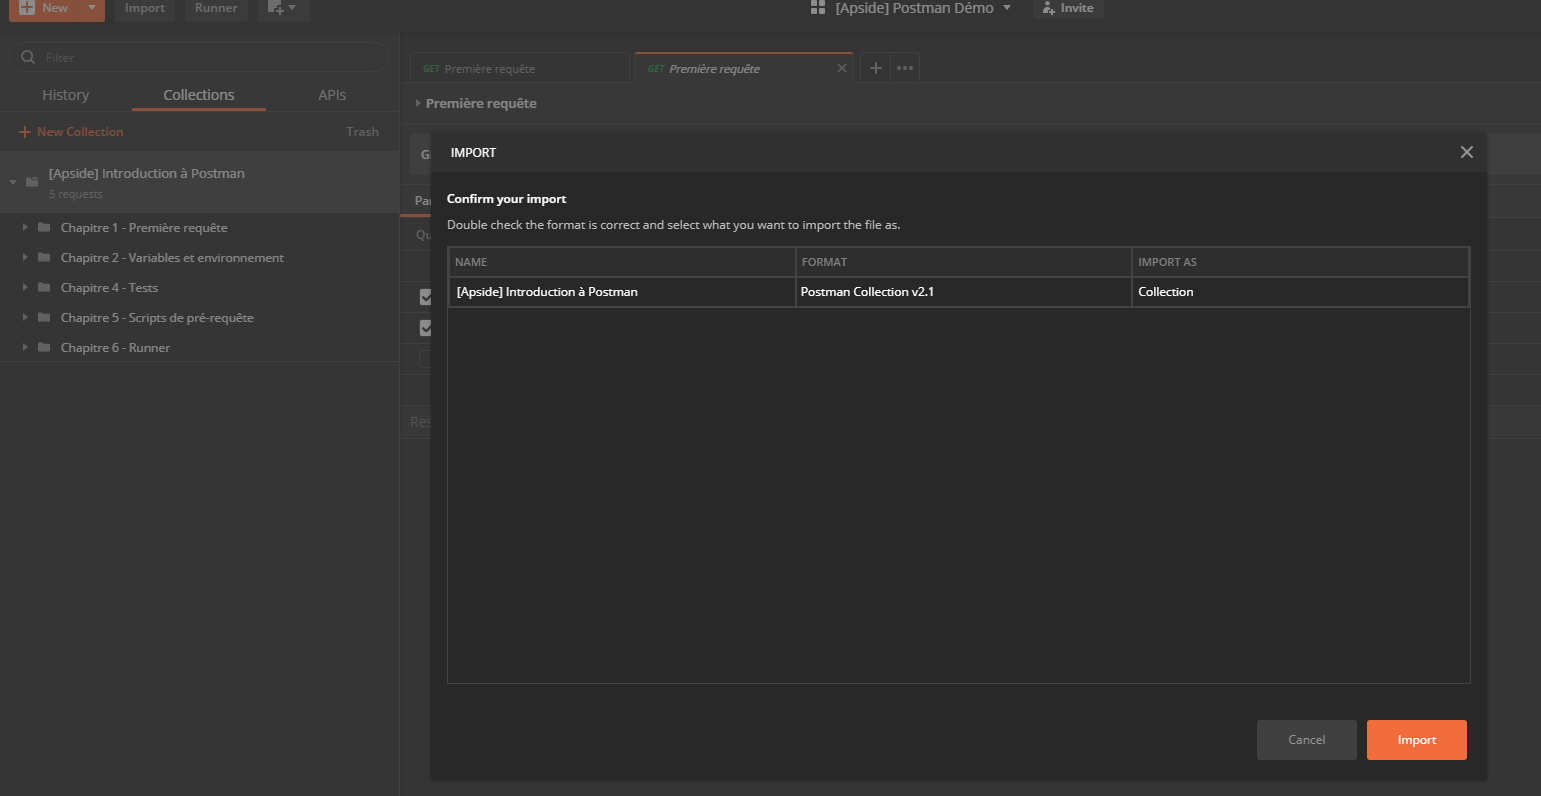
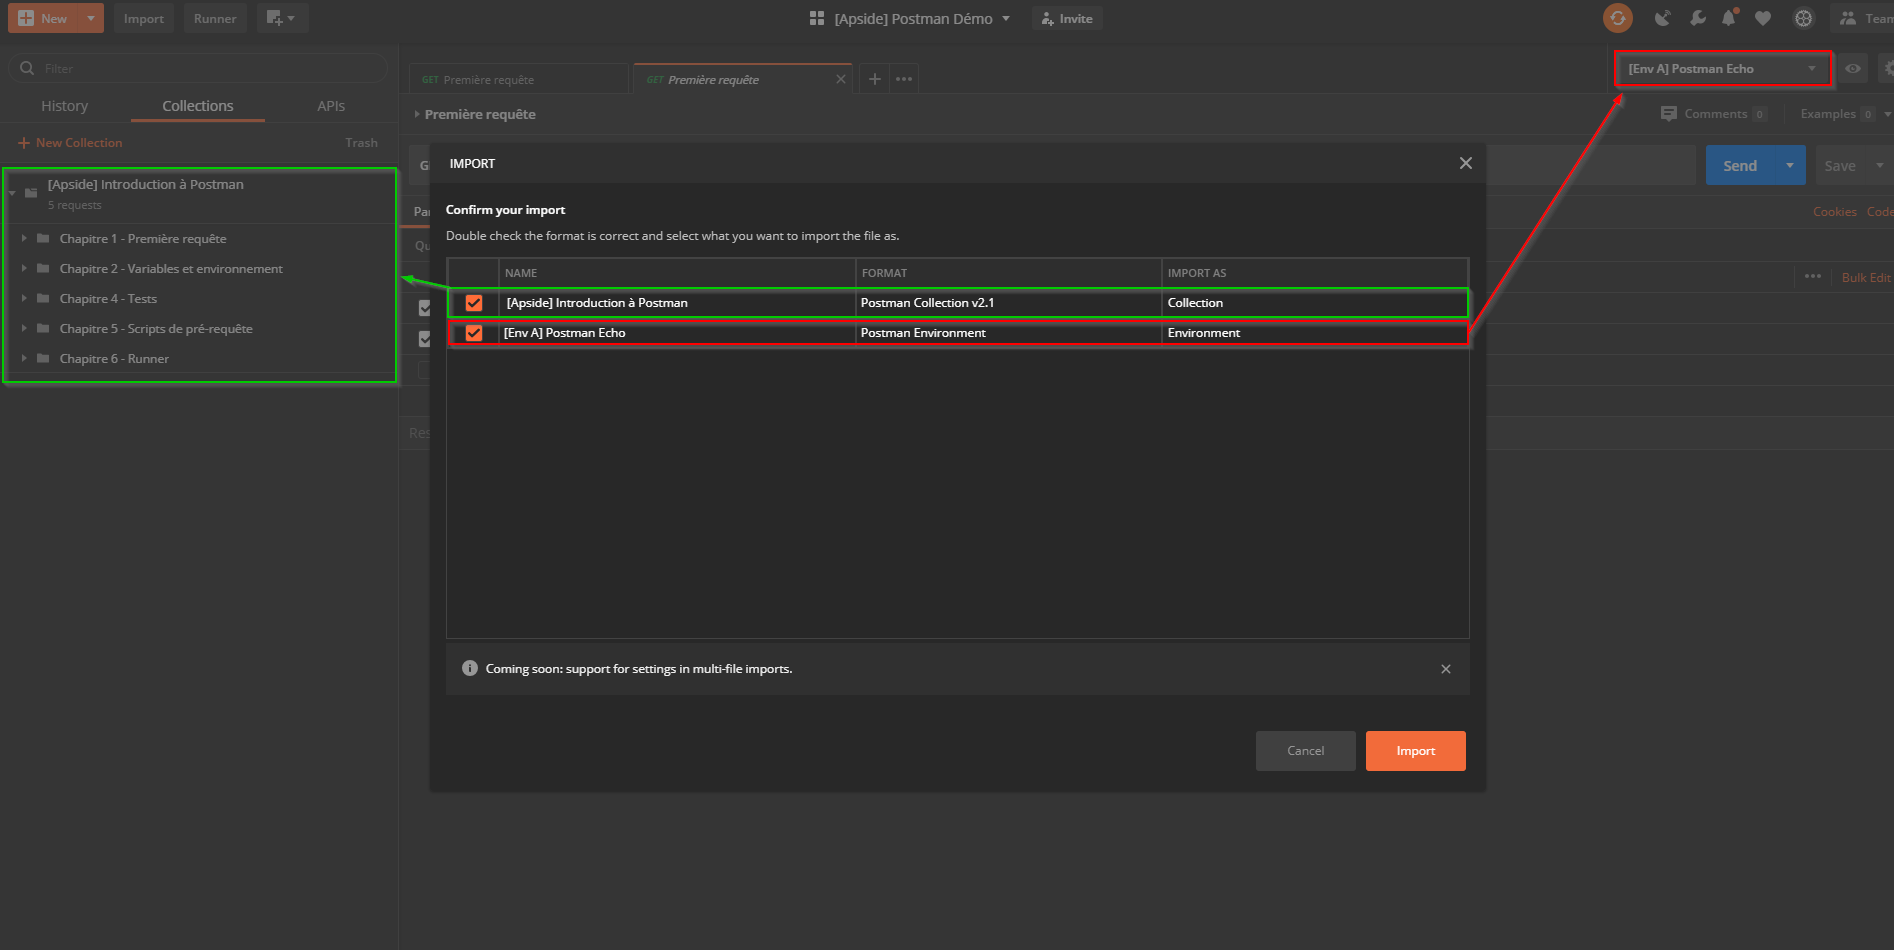
ajout chapitre 2 variables et environnement

diff --git a/chapitres/02-variables_et_environnement.md b/chapitres/02-variables_et_environnement.md
@@ -1,2 +1,85 @@
-# Variables et environnement
+# Variables et environnements
 
+Dans postman, les variables se comportent comme dans la majorité des langages de programmation : elles doivent être définies, sont référencées par leur nom et sont utilisées pour stocker une valeur. L'utilisation des variables minimise fortement le risque d'erreur et permet un travail plus efficace.
+
+Dans Postman, on accède à la valeur d'une variable en tapant le nom d'une variable, entouré de doubles accolades : `{{maVariable}}`. On peut utiliser cette notation dans les URLs, les paramètres, les headers, le'onglet d'authentification (onglet 'Authorization'), les corps (body) des requêtes, les headers pré-enregistrés ("presets headers") ainsi que dans les scripts de pré-requête et les tests. Il existe aussi des variables dites 'dynamiques', nous y reviendrons à la fin de ce chapitre.
+
+## Qu'est-ce qu'un environnement ?
+
+Un environnement dans Postman est un ensemble de variables permettant de faire tourner des requêtes avec des jeux de données différents. L'utilisation typique de différents environnements est l'emploi d'une seule et même collection pour différents environnements tels que "Développement", "Intégration", "Recette", "Production" par exemple.
+
+## Création d'une variable d'environnement
+
+### Exemple avec l'url de l'API
+
+L'exemple parfait pour illustrer la création d'une variable ainsi que l'utilisation des environnements est la création de la variable stockant la valeur de l'url de l'API. Dans notre exemple, après avoir créé un nouveau dossier "Chapitre 2...", nous allons créer la même requête que dans le dossier "Chapitre 1" en remplaçant dans la barre d'adresse `https://postman-echo.com` par une référence à une variable `{{baseUrl}}`. Si tout s'est bien passé, Postman doit afficher la variable en rouge car il ne parvient pas à trouver la définition de la variable `baseUrl`. D'ailleurs si on survole le nom de la variable, un tooltip doit apparaître avec un message d'erreur.
+
+![unresolved-variable.png](/images/chap.2/unresolved-variable.png)
+
+Il faut donc créer cette variable et nous allons pour cela commencer par créer un environnement en cliquant sur le bouton `New` en haut à gauche de la fenêtre puis sur `Environment`.
+
+![new-environment.png](/images/chap.2/new-environment.png)
+
+Il faudra ensuite donner un nom à cet environnement, lui ajouter la variable souhaitée dans la colonne `initial value` puis cliquer sur le bouton `Add` :
+
+![creation-env-A](/images/chap.2/creation-environment-A.png)
+
+Si la variable apparaît toujours en rouge après l'ajout de l'environnement, c'est que ce dernier n'est pas sélectionné. Il faut pour cela cliquer sur le menu déroulant en haut à droite de la fenêtre et sélectionner l'environnement récemment créé.
+Après cela, la variable doit apparaître en orange et au survol afficher la valeur qui lui a été affectée. La requête doit être fonctionnelle et renvoyer 
+
+![variabel-baseurl-ok.png](/images/chap.2/variabel-baseurl-ok.png)
+
+On peut noter dans le tolltip ouvert par Postman au survol de la variable la présence d'un `E` vert.
+
+Ceci indique le **scope** de la variable ou autrement dit sa **portée**.
+
+## **Scope** d'une variable dans Postman
+
+Plusieurs scopes sont disponibles pour les variables dans Postman. Si une variable avec le même nom est déclarée dans deux scopes différents, alors la valeur contenue dans la variable du scope le plus "petit" sera utilisée.
+
+![var-scope.jpg](/images/chap.2/var-scope.jpg)
+
+Pour illustrer ce propos, créons une nouvelle requête (POST cette fois) dans le dossier "Chapitre 2" de notre collection et "variabilisons" un attribut du body de la requête.
+
+![variable-scope-1.png](/images/chap.2/variable-scope-1.png)
+
+Déclarons maintenant une variable "globale" grâce à l'outil de gestion rapide des environnements en cliquant sur le symbôle de l'oeil en haut à droite de la fenêtre puis sur le bouton `Edit` en face de la section `Globals`.
+
+![add-global-variable.png](/images/chap.2/add-global-variable.png)
+
+Ajoutons la variable globale `userName` et affectons lui la valeur "Dupont" (pour un maximum d'originalité) puis enregistrons. Si nous envoyons cette requête POST, le corps de la réponse contiendra entre autre l'objet suivant :
+
+```json
+"data": {
+        "companyName": "Apside",
+        "userName": "Dupont"
+}
+```
+
+Par le même biais (la gestion rapide des environnements) éditons cette fois l'environnement créé au début de ce chapitre. Remarquons au passage, entourée en vert, l'affichage de la variable à portée "globale" utilisée auparavant.
+
+![variable-scope-2.png](../images/chap.2/variable-scope-2.png)
+
+Affectez à une nouvelle variable d'environnement `userName `la valeur "Durand", lancez la requête et observez la valeur de la variable utilisée.
+
+![alt](/images/chap.2/variable-scope-3.png)
+
+Note : si vous souhaitez ne pas déclarer la variable dans un scope ou dans l'autre, il suffit de la décocher dans la liste de l'environnement.
+
+S'il y a plusieurs scopes disponibles pour déclarer des variables, il y a donc autant d'utilisations spéciales et de contre-inidcations pour leur utilisation :
+
+- Les **variables globales** permettent le partage de données au niveau... global. Leur valeur sera donc disponibles entre différentes collections, requêtes, scripts et environnement.
+  - La portée globale de ces variables crée une certaine confusion et peut rapidement mener à de potentielles erreurs, surtout lorsqu'elles sont remplacées (ce qui est souvent le cas) par des variables au scope plus restreint. Ce scope "global" est donc fortement déconseillé, sauf en de rares cas ou de manière éphémère, dans le cas d'un prototypage rapide ou un test succint
+  
+- Les **variables de collection** sont disponibles pour toutes les requêtes d'une collection et sont indépendantes de l'environnement. Leurs valeurs ne peuvent pas être modifiées dans les scripts ce qui les rend contraignantes et finalement peu utilisée car souvent supplantées par les variables d'environnement.
+  - À utiliser seulement dans le cas où l'API ne possède qu'un environnement atteignable
+  
+- Les **variables d'environnement** permettent d'adapter les requêtes en fonction des environnements sur lesquels elles doivent pointer. On ne peut activer qu'un seul environnement à la fois. Ce sont les variables les plus couramment utilisées avec les variables locales.
+
+- Les **variables locales** sont des variables temporaires et leur valeur n'est accessible que durant le laps de temps compris entre le déclenchement du script de pré-requête et celui du script de test.
+
+- Les **Data variables** sont disponibles uniquement dans le cadre de l'automatisation d'une collection via l'outil Newman ou le Runner Postman. Elles sont disponibles durant toute l'itération et proviennent de fichiers externes au format CSV ou JSON.
+
+![Variables-Chart.png](/images/chap.2/Variables-Chart.png)
+
+Comme indiqué sur le schéma ci-dessus, Postman expose certaines API telles que `pm.variables.set(...)` et `pm.variables.get(...)` afin d'accéder au contenu des variables depuis les scripts. Nous verrons cela dans le [prochain chapitre consacré aux scripts et aux tests](03-scripts_et_tests.md).

diff --git a/chapitres/00-importer_collection_et_environnement.md b/chapitres/00-importer_collection_et_environnement.md
@@ -1,19 +1,18 @@
-# Importer la collection et l'environmment liée à cette introduction dans Postman
+# Importer la collection liée à cette "Introduction à Postman"
 
-Avant de lire les chapitres de présentatin de Postman par l'exemple, il est possible de télécharger la collection utilisée lors de la démonstration sur le git :
+Avant de lire les chapitres suivant, il est possible de télécharger la collection servant de support à cette Introduction afin de l'importer dans Postman, accompagnée des environnements. Tout d'abord, clonez le git suivant : <lien-du-git>
 
-<lien-du-git>
+Pour importer la collection et les environnements, il suffit d'ouvrir Postman et de suivre les étapes suivantes :
 
-Pour importer cette collection, il suffit d'ouvrir Postman et de suivre les étapes suivantes :
-
-- s'assurer que vous êtes en mode `Build` grâce au bouton en bas à droite de la fenêtre 
+- s'assurer que vous êtes en mode `Build` grâce au bouton en bas à droite de la fenêtre
 ![control-mode.png](/images/chap.0/control-mode.png)
-
-- cliquer sur le bouton `import` en haut à gauche de la fenêtre
-- faire glisser le fichier `json` précédemment téléchargé sur le git dans l'emplacement prévu à cet effet puis cliquer sur `Import`
-
-La nouvelle collection importée se trouvera alors sur le panel de gauche.
-
+- cliquer sur le bouton `import` en haut à gauche de la fenêtre, à côté du bouton `New`
+- dans la fenêtre de dialogue, sélectionner l'onglet 'Folder' afin d'importer tous les éléments d'un dossier (environnements comme collections)
+- sélectionner le dossier dans lequel le git a été clôné
+- valider grâce au bouton orange `Import`
+  
 ![collection-importee.png](/images/chap.0/collection-importee.png)
 
-Cette collection est organisée par chapitre, tout comme l'introduction présente sur le git.
+La nouvelle collection importée se trouvera alors sur le panel de gauche et les environnements dans la liste des environnements disponibles grâce au menu déroulant en haut à droite de l'écran.
+
+Cette collection est organisée par chapitre, et correspond donc aux exemples des chapitres. L'intérêt du git est de pouvoir apporter des modifications dans son espace de travail et pouvoir expérimenter avec les variables, les environnements, les scripts et pouvoir éventuellement reporter et adapter ces exemples basiques dans des collections personnelles.

diff --git a/chapitres/03-scripts_et_tests.md b/chapitres/03-scripts_et_tests.md
@@ -1,0 +1,2 @@
+# Scripts et tests
+
